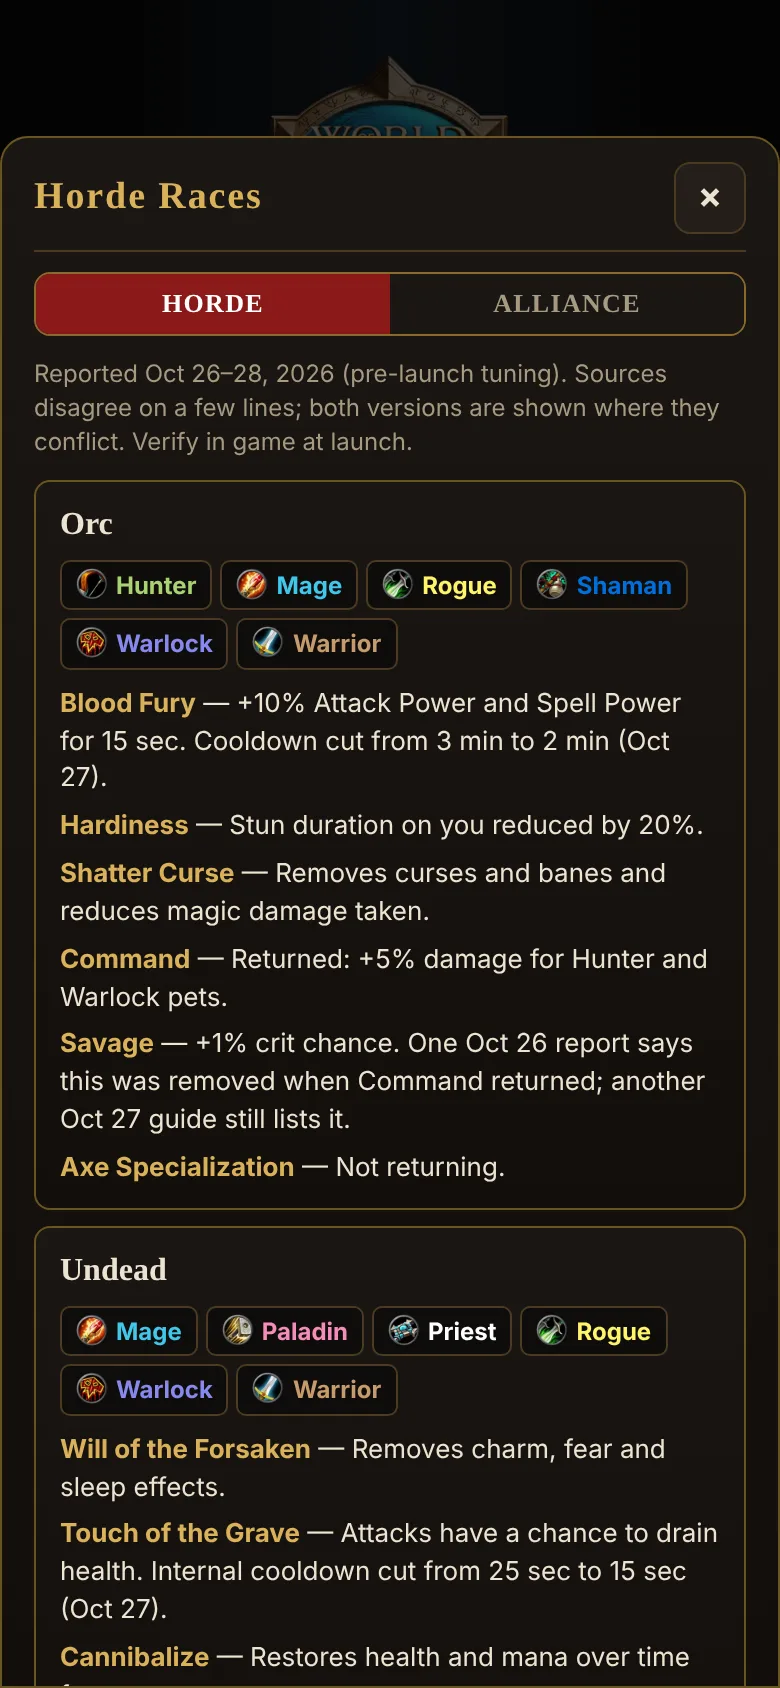
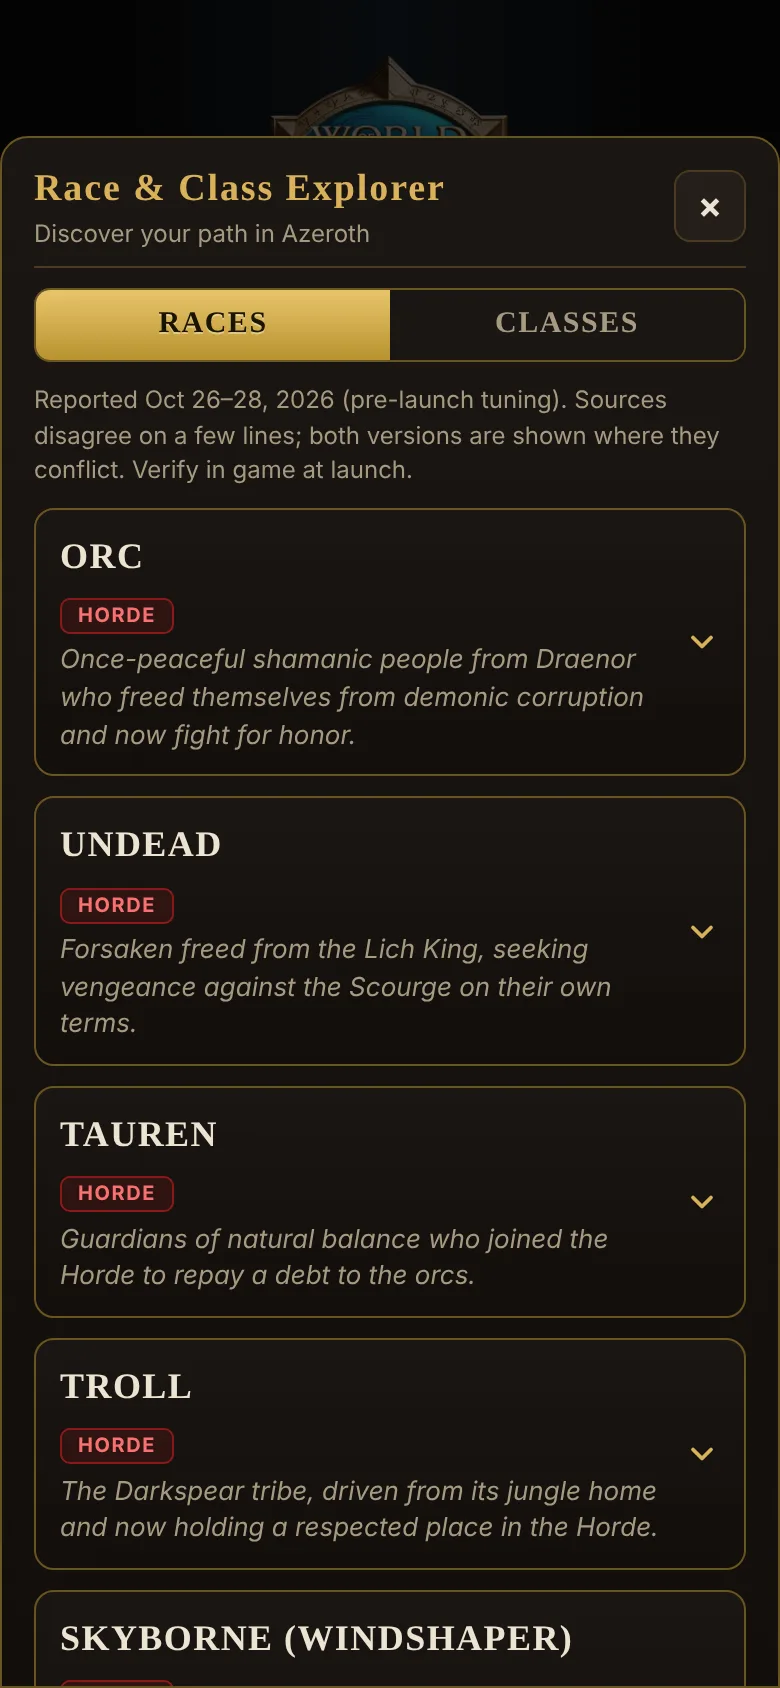
PvP planner: Race & Class Explorer with Races/Classes views and nested accordions
Claude-Session: https://claude.ai/code/session_01D5WRtL93QMjdNmrGVJvuEs

diff --git a/DuoPlanner/index.html b/DuoPlanner/index.html
@@ -128,7 +128,7 @@ select{width:100%;font:600 14px var(--body);padding:7px 8px;border-radius:6px;bo
 .racebtn{font:700 13px var(--display);padding:7px 12px;border-radius:8px;border:1px solid var(--gold2);background:var(--panel);color:var(--gold);cursor:pointer;letter-spacing:.05em}
 .modal{position:fixed;inset:0;background:#000b;z-index:30;display:flex;align-items:flex-end;justify-content:center;padding:0}
 .sheet{background:var(--panel);border:1px solid var(--gold2);border-radius:14px 14px 0 0;width:100%;max-width:720px;max-height:92%;overflow:auto;padding:12px max(16px,env(safe-area-inset-right,0px)) calc(16px + env(safe-area-inset-bottom,0px)) max(16px,env(safe-area-inset-left,0px))}
-.sheet .head{display:flex;align-items:center;gap:10px;position:sticky;top:0;background:var(--panel);padding-bottom:8px;border-bottom:1px solid var(--line);margin-bottom:10px}
+.sheet .head{display:flex;align-items:center;gap:10px;position:sticky;top:-12px;margin-top:-12px;padding-top:12px;background:#1b1612;padding-bottom:8px;border-bottom:1px solid var(--line);margin-bottom:10px;z-index:3}
 .sheet .head h2{margin:0;border:0;padding:0;flex:1}
 .sheet .head button.x{font:700 18px var(--body);border:1px solid var(--line);background:var(--panel2);color:var(--fg);border-radius:8px;width:36px;height:36px;cursor:pointer}
 .race{border:1px solid var(--line);border-radius:8px;padding:10px 12px;margin-bottom:8px;background:var(--panel2)}
@@ -201,6 +201,40 @@ select,.bar select{background:linear-gradient(180deg,#1f1915,#14100d) url("data:
 .solo .top{align-items:flex-start}
 .solo .top .names{padding-top:4px}
 
+/* ===== Explorer ===== */
+.xtog{max-width:none;margin-bottom:10px}
+.xcard{border:1px solid #6b5422;border-radius:10px;background:linear-gradient(180deg,#1b1612,#120e0b);margin-bottom:10px;overflow:hidden}
+.xhead{display:flex;align-items:center;gap:10px;padding:10px 12px;cursor:pointer;width:100%;background:none;border:0;color:var(--fg);text-align:left;font:inherit}
+.xhead:focus-visible{outline:2px solid var(--gold);outline-offset:-2px}
+.xhead h3{font-size:18px;margin:0;color:var(--fg);letter-spacing:.04em;text-transform:uppercase}
+.xhead .sub{font-size:13px;color:var(--muted);font-style:italic}
+.xhead .ci.big{width:44px;height:44px}
+.chev{margin-left:auto;color:var(--gold);transition:transform .15s;flex-shrink:0}
+.open>.xhead .chev{transform:rotate(180deg)}
+.xbody{padding:0 12px 12px;display:none}
+.open>.xbody{display:block}
+.fb{font:700 10px var(--body);letter-spacing:.08em;padding:2px 8px;border-radius:5px;border:1px solid;text-transform:uppercase}
+.fb.Horde{color:#f87171;border-color:#8b1a1a;background:#8b1a1a33} .fb.Alliance{color:#60a5fa;border-color:#1f4e9c;background:#1f4e9c33}
+.rb{font:700 10px var(--body);letter-spacing:.06em;padding:2px 7px;border-radius:5px;border:1px solid;text-transform:uppercase;white-space:nowrap}
+.rb.Tank{color:#60a5fa;border-color:#1e4f8f;background:#1e4f8f33} .rb.Healer{color:#34d399;border-color:#0f6b4b;background:#0f6b4b33} .rb.DPS{color:#f87171;border-color:#8b1f1f;background:#8b1f1f33} .rb.Mixed{color:#d8b4fe;border-color:#5b2a9c;background:#5b2a9c33}
+.xsec{font-family:var(--display);font-size:12px;color:var(--gold);letter-spacing:.1em;text-transform:uppercase;display:flex;align-items:center;gap:8px;margin:10px 0 6px}
+.xsec::after{content:"";flex:1;height:1px;background:#4a3a22}
+.traits{list-style:none;margin:0;padding:0;display:flex;flex-direction:column;gap:4px}
+.traits li{background:#0f0c0a;border:1px solid #2d251c;border-radius:6px;padding:7px 9px;font-size:13px;line-height:1.4}
+.traits li b{color:var(--gold);display:block;font-size:13.5px}
+.cls{border:1px solid #4a3a22;border-radius:8px;background:#0f0c0a;margin-bottom:6px;overflow:hidden}
+.cls>.xhead{padding:8px 10px}
+.cls>.xhead h3{font-size:15px}
+.cls .xbody{padding:0 8px 8px}
+.spec{display:grid;grid-template-columns:36px 1fr;gap:8px;align-items:center;padding:6px 6px;border-top:1px solid #2d251c;font-size:13px}
+.spec img{width:36px;height:36px;border-radius:6px;object-fit:cover;object-position:50% 20%;border:1px solid var(--pc,#4a3a22)}
+.spec .sn{font-weight:700;display:flex;align-items:center;gap:6px;flex-wrap:wrap}
+.spec .sd{color:var(--muted);font-size:12.5px}
+.racerow{display:flex;align-items:center;gap:8px;padding:6px 8px;border-top:1px solid #2d251c;font-size:13px;background:none;border-left:0;border-right:0;border-bottom:0;width:100%;color:var(--fg);text-align:left;font-family:inherit;cursor:pointer}
+.racerow .fb{margin-left:auto}
+.cdesc{font-size:13px;color:var(--muted);margin:0 0 6px;line-height:1.45}
+@media (min-width:700px){#raceList.grid{display:grid;grid-template-columns:1fr 1fr;gap:10px;align-items:start} #raceList.grid .xcard{margin:0}}
+
 footer{margin-top:24px;color:var(--muted);font-size:12px;text-align:center}
 </style>
 </head>
@@ -213,7 +247,7 @@ footer{margin-top:24px;color:var(--muted);font-size:12px;text-align:center}
 <p class="sub" id="subline">All 406 spec pairings · graded A–F on Fun, Effectiveness and Ease · Launch Nov 4, 2026</p>
 </header>
 
-<div class="topbar"><button type="button" class="racebtn" id="openRaces">Races &amp; Racials</button><button type="button" class="racebtn" id="openHow">How Ratings Work</button></div>
+<div class="topbar"><button type="button" class="racebtn" id="openRaces">Race &amp; Class Explorer</button><button type="button" class="racebtn" id="openHow">How Ratings Work</button></div>
 <div class="modal" id="howModal" hidden><div class="sheet" role="dialog" aria-label="How ratings work"><div class="head"><h2>How Ratings Work</h2><button type="button" class="x" id="closeHow" aria-label="Close">×</button></div>
 <p class="note"><b>Grades:</b> A = 5, B = 4, C = 3, D = 2, F = 1. The overall grade is the average of the category scores: 4.5+ A, 3.5–4.49 B, 2.5–3.49 C, 1.5–2.49 D, below 1.5 F. Sorting still uses the underlying numbers.</p>
 <p class="note">Every score is a 1–5 rating built from weighted factors: rate each factor 1–5, multiply by its weight, add them up, round to the nearest whole number. The same rubric is applied to every spec and pairing. Scores are judgments about level-60 play with comparable gear, not measured win rates.</p>
@@ -265,7 +299,10 @@ footer{margin-top:24px;color:var(--muted);font-size:12px;text-align:center}
 <p class="note">Duo grades come from the players' own assessments. Solo grades and the one-line rationales are Claude's starting estimates from classic-era mechanics plus the latest credible Forever reporting, with estimates kept distinct from verified mechanics. Revise them freely once you have played.</p>
 </div></div>
 <div class="mode"><button type="button" id="mDuo" class="on">DUO</button><button type="button" id="mSolo">SOLO</button></div>
-<div class="modal" id="raceModal" hidden><div class="sheet" role="dialog" aria-label="Races and racials"><div class="head"><h2 id="raceTitle">Horde Races</h2><button type="button" class="x" id="closeRaces" aria-label="Close">×</button></div><div class="fac" style="margin-bottom:10px"><button type="button" id="fH" class="h on">HORDE</button><button type="button" id="fA" class="a">ALLIANCE</button></div><p class="note" id="raceNote"></p><div id="raceList"></div></div></div>
+<div class="modal" id="raceModal" hidden><div class="sheet" role="dialog" aria-label="Race and Class Explorer"><div class="head"><div style="flex:1"><h2 style="margin:0">Race &amp; Class Explorer</h2><div class="sub" style="font-size:12px">Discover your path in Azeroth</div></div><button type="button" class="x" id="closeRaces" aria-label="Close">×</button></div>
+<div class="mode xtog"><button type="button" id="xRaces" class="on">RACES</button><button type="button" id="xClasses">CLASSES</button></div>
+<p class="note" id="raceNote"></p>
+<div id="raceList"></div></div></div></div>
 
 <div class="filters" id="duoFilters">
 <div class="who">
@@ -472,16 +509,38 @@ document.getElementById("copyAll").onclick=()=>{if(!Object.keys(saved).length)re
 document.getElementById("showAll").onclick=()=>{if(!Object.keys(saved).length)return toast("Nothing saved yet");showExport(exportText())};
 document.getElementById("clearAll").onclick=()=>{saved={};persist();document.getElementById("exportBox").hidden=true;render();toast("Cleared")};
 const CLASSCOL={"Warrior":"#C69B6D","Mage":"#3FC7EB","Warlock":"#8788EE","Rogue":"#FFF468","Hunter":"#AAD372","Druid":"#FF7C0A","Shaman":"#0070DD","Paladin":"#F48CBA","Priest":"#FFFFFF"};
-function renderFaction(){
-  const h=state.faction==="Horde";
-  document.getElementById("fH").classList.toggle("on",h);document.getElementById("fA").classList.toggle("on",!h);
-  document.getElementById("raceTitle").textContent=state.faction+" Races";
-  document.getElementById("raceNote").textContent=RACES.asof;
-  document.getElementById("raceList").innerHTML=RACES[state.faction].map(r=>`<div class="race"><h3>${esc(r.race)}</h3><div class="chips">${r.classes.map(c=>`<span class="chip" style="color:${CLASSCOL[c]}"><img class="ci" src="${ICON}${CICON[c]}.webp" alt="">${c}</span>`).join("")}</div><ul>${r.racials.map(([n,d])=>`<li><b>${esc(n)}</b> — ${esc(d)}</li>`).join("")}</ul></div>`).join("");
-  try{localStorage.setItem("hordeFaction",state.faction)}catch(e){}
+const XP={"raceDesc": {"Orc": "Once-peaceful shamanic people from Draenor who freed themselves from demonic corruption and now fight for honor.", "Undead": "Forsaken freed from the Lich King, seeking vengeance against the Scourge on their own terms.", "Tauren": "Guardians of natural balance who joined the Horde to repay a debt to the orcs.", "Troll": "The Darkspear tribe, driven from its jungle home and now holding a respected place in the Horde.", "Skyborne (Windshaper)": "Shen'dorei descendants who gained elemental skysight and seek their missing wind-spirit mentors.", "Human": "A young, versatile race of strong kingdoms seeking to restore its former glory.", "Dwarf": "Scholarly, artifact-hunting people who turned from earthly riches to ancient knowledge.", "Night Elf": "Survivors of an ancient forest empire, emerged from isolation to face the Burning Legion again.", "Gnome": "Small but brilliant inventors whose lost city of Gnomeregan was a steam-technology marvel.", "Skyborne (High Order)": "Descendants of Highborne scholars who aim to regain lost arcane knowledge."}, "classOrder": ["Warrior", "Paladin", "Hunter", "Rogue", "Priest", "Shaman", "Mage", "Warlock", "Druid"], "classes": {"Warrior": {"roles": ["Tank", "DPS"], "desc": "Plate-armored fighters who build rage in combat and turn it into crushing weapon attacks or an unbreakable defense.", "specs": [["Arms", "DPS", "Powerful, deliberate weapon attacks."], ["Fury", "DPS", "Fast, relentless melee combat."], ["Protection", "Tank", "Shields, defense, and enemy control."]]}, "Paladin": {"roles": ["Tank", "Healer", "DPS"], "desc": "Holy knights who wield the Light to heal, protect, or smite, with blessings and auras that strengthen the whole group.", "specs": [["Holy", "Healer", "Restores allies with the power of the Light."], ["Protection", "Tank", "Defends allies with holy magic and armor."], ["Retribution", "DPS", "Combines melee weapons with holy damage."]]}, "Hunter": {"roles": ["DPS"], "desc": "Ranged marksmen who fight beside a tamed beast, laying traps and controlling distance.", "specs": [["Beast Mastery", "DPS", "Fights alongside a powerful animal companion."], ["Marksmanship", "DPS", "Focuses on precise ranged weapon damage."], ["Survival", "DPS", "Uses traps and close-range survival tactics."]]}, "Rogue": {"roles": ["DPS"], "desc": "Stealthy melee assassins who pick their fights, open from the shadows, and finish with combo points.", "specs": [["Assassination", "DPS", "Uses poisons and sustained lethal attacks."], ["Combat", "DPS", "Specializes in direct and sustained melee combat."], ["Subtlety", "DPS", "Uses stealth, positioning, and surprise attacks."]]}, "Priest": {"roles": ["Healer", "DPS"], "desc": "Masters of the Light and the Shadow, healing and shielding allies or draining enemies with dark magic.", "specs": [["Discipline", "Healer", "Protects and heals allies with divine magic."], ["Holy", "Healer", "Specializes in powerful restorative spells."], ["Shadow", "DPS", "Uses dark magic and sustained magical damage."]]}, "Shaman": {"roles": ["Healer", "DPS"], "desc": "Spiritual leaders who call on the elements through totems, lightning, and empowered weapons.", "specs": [["Elemental", "DPS", "Strikes enemies with lightning and elemental spells."], ["Enhancement", "DPS", "Empowers melee attacks with elemental energy."], ["Restoration", "Healer", "Heals allies using water magic and totems."]]}, "Mage": {"roles": ["DPS"], "desc": "Cloth-wearing spellcasters who control the battlefield with arcane, fire, and frost magic.", "specs": [["Arcane", "DPS", "Channels powerful arcane magic."], ["Fire", "DPS", "Burns enemies with explosive fire spells."], ["Frost", "DPS", "Controls and damages enemies with freezing magic."]]}, "Warlock": {"roles": ["DPS"], "desc": "Wielders of fel and shadow who command demons and wear enemies down with curses and fear.", "specs": [["Affliction", "DPS", "Weakens enemies with curses and damage over time."], ["Demonology", "DPS", "Uses summoned demons and demonic powers."], ["Destruction", "DPS", "Unleashes powerful destructive spells."]]}, "Druid": {"roles": ["Tank", "Healer", "DPS"], "desc": "Shapeshifting keepers of nature who can fill any role by changing form.", "specs": [["Balance", "DPS", "Uses nature and celestial magic at range."], ["Feral Combat", "Tank / DPS", "Shapeshifts into bears for tanking or cats for melee damage."], ["Restoration", "Healer", "Uses nature magic and healing-over-time spells."]]}}};
+const CHEV='<svg class="chev" width="18" height="18" viewBox="0 0 24 24" fill="none" stroke="currentColor" stroke-width="2.5" stroke-linecap="round" stroke-linejoin="round"><path d="M6 9l6 6 6-6"/></svg>';
+const ALLRACES=[...RACES.Horde.map(r=>({...r,faction:"Horde"})),...RACES.Alliance.map(r=>({...r,faction:"Alliance"}))];
+const SPECIMG={};Object.keys(SPECS).forEach(s=>{SPECIMG[s]=SPECS[s].img});
+function specPortrait(cls,spec){const n=spec==="Feral Combat"?"Feral Cat Druid":`${spec} ${cls}`;const u=SPECIMG[n];return u?`<img src="${u}" alt="" loading="lazy" style="--pc:${CLASSCOL[cls]}">`:`<span></span>`}
+function roleBadge(r){const k=r.includes("/")?"Mixed":r;return `<span class="rb ${k}">${r}</span>`}
+function classAccordion(cls,opts){const c=XP.classes[cls];
+  return `<div class="cls"><button type="button" class="xhead" data-acc>${`<img class="ci big" src="${ICON}${CICON[cls]}.webp" alt="" style="--pc:${CLASSCOL[cls]};width:36px;height:36px">`}<h3 style="color:${CLASSCOL[cls]}">${cls}</h3>${c.roles.map(roleBadge).join(" ")}${CHEV}</button><div class="xbody">${opts&&opts.desc?`<p class="cdesc">${c.desc}</p>`:""}${c.specs.map(([n,r,d])=>`<div class="spec">${specPortrait(cls,n)}<div><div class="sn">${n} ${roleBadge(r)}</div><div class="sd">${d}</div></div></div>`).join("")}</div></div>`}
+function raceCard(r,open){
+  return `<div class="xcard ${open?"open":""}" data-race="${esc(r.race)}"><button type="button" class="xhead" data-acc><div style="flex:1;min-width:0"><h3 style="font-family:var(--display)">${esc(r.race)}</h3><div style="margin:3px 0 4px"><span class="fb ${r.faction}">${r.faction}</span></div><div class="sub">${XP.raceDesc[r.race]||""}</div></div>${CHEV}</button>
+  <div class="xbody"><div class="xsec">Racial traits</div><ul class="traits">${r.racials.map(([n,d])=>`<li><b>${esc(n)}</b>${esc(d)}</li>`).join("")}</ul>
+  <div class="xsec">Available classes (${r.classes.length})</div>${XP.classOrder.filter(c=>r.classes.includes(c)).map(c=>classAccordion(c)).join("")}</div></div>`}
+function classCard(cls){const c=XP.classes[cls];const races=ALLRACES.filter(r=>r.classes.includes(cls));
+  return `<div class="xcard" data-class="${cls}"><button type="button" class="xhead" data-acc><img class="ci big" src="${ICON}${CICON[cls]}.webp" alt="" style="--pc:${CLASSCOL[cls]}"><div style="flex:1;min-width:0"><h3 style="color:${CLASSCOL[cls]}">${cls}</h3><div style="margin-top:3px">${c.roles.map(roleBadge).join(" ")}</div></div>${CHEV}</button>
+  <div class="xbody"><p class="cdesc">${c.desc}</p><div class="xsec">Specializations</div>${c.specs.map(([n,r,d])=>`<div class="spec">${specPortrait(cls,n)}<div><div class="sn">${n} ${roleBadge(r)}</div><div class="sd">${d}</div></div></div>`).join("")}
+  <div class="xsec">Playable races (${races.length})</div>${races.map(r=>`<button type="button" class="racerow" data-goto="${esc(r.race)}">${esc(r.race)}<span class="fb ${r.faction}">${r.faction}</span></button>`).join("")}</div></div>`}
+state.xview="races";
+function renderExplorer(openRace){
+  const list=document.getElementById("raceList");
+  document.getElementById("xRaces").classList.toggle("on",state.xview==="races");document.getElementById("xClasses").classList.toggle("on",state.xview!=="races");
+  document.getElementById("raceNote").textContent=state.xview==="races"?RACES.asof:"Nine classes, 27 specializations. Tap a class for its specs and every race that can play it; tap a race to jump to its racial traits.";
+  list.className="grid";
+  list.innerHTML=state.xview==="races"?ALLRACES.map(r=>raceCard(r,r.race===openRace)).join(""):XP.classOrder.map(classCard).join("");
+  if(openRace){const el=list.querySelector(`[data-race="${CSS.escape(openRace)}"]`);if(el)el.scrollIntoView({block:"start"})}
 }
-document.getElementById("fH").onclick=()=>{state.faction="Horde";renderFaction()};
-document.getElementById("fA").onclick=()=>{state.faction="Alliance";renderFaction()};
+document.getElementById("raceList").addEventListener("click",e=>{
+  const go=e.target.closest("[data-goto]");if(go){state.xview="races";renderExplorer(go.dataset.goto);return}
+  const h=e.target.closest("[data-acc]");if(!h)return;h.parentElement.classList.toggle("open");
+});
+document.getElementById("xRaces").onclick=()=>{state.xview="races";renderExplorer()};
+document.getElementById("xClasses").onclick=()=>{state.xview="classes";renderExplorer()};
+function renderFaction(){renderExplorer()}
 const modal=document.getElementById("raceModal");
 document.getElementById("openRaces").onclick=()=>{modal.hidden=false};
 document.getElementById("closeRaces").onclick=()=>{modal.hidden=true};

diff --git a/games/duoplanner/index.html b/games/duoplanner/index.html
@@ -50,12 +50,12 @@
         </header>
         <a class="czc-cover" href="../../DuoPlanner/" aria-label="Open the PvP Planner"><img src="../../assets/games/duoplanner-cover.webp" alt="PvP Planner: a duo card and two solo cards with portraits and letter-grade shields" loading="lazy" width="1600" height="900"></a>
         <p>Built for the launch of World of Warcraft: Forever, the PvP Planner grades every one of the 406 possible two-spec pairings across all 28 specializations on Fun, Effectiveness and Ease, each 1 to 5, for a color-coded total out of 15. Every pairing carries a one-sentence read on why it scores the way it does, grounded in the actual kit: Shatter combos, Pain Suppression, Windfury, Viper Sting, Fear.</p>
-        <p>Every spec has its own portrait, and every grade is a shield badge with a five-segment bar, colored by the grade alone: A blue, B green, C yellow, D red, F gray. Filter each player by role (Healer, Tank, Melee, Ranged) or exact spec, sort by any axis, and the Top Picks section recalculates for whatever you have selected. A Solo mode grades each spec alone on Fun, Ease, Leveling and solo PvP out of 20. Save the combos you are weighing, then copy them as a ready-made prompt to paste into an AI for a deeper write-up. A Races &amp; Racials sheet covers both factions with the latest pre-launch racial tuning.</p>
+        <p>Every spec has its own portrait, and every grade is a shield badge with a five-segment bar, colored by the grade alone: A blue, B green, C yellow, D red, F gray. Filter each player by role (Healer, Tank, Melee, Ranged) or exact spec, sort by any axis, and the Top Picks section recalculates for whatever you have selected. A Solo mode grades each spec alone on Fun, Ease, Leveling and solo PvP out of 20. Save the combos you are weighing, then copy them as a ready-made prompt to paste into an AI for a deeper write-up. A Race &amp; Class Explorer covers every Forever race and class: racial traits with the latest pre-launch tuning, every race's playable classes, and all 27 specializations with their roles.</p>
                 <div class="czc-gallery" role="list">
           <a class="czc-thumb" href="../../assets/games/duoplanner-duo.webp" data-full="../../assets/games/duoplanner-duo.webp" aria-label="Expand: Duo cards with Player 1 and Player 2 portraits, overall grade shield and Fun, Effective and Ease badges"><img src="../../assets/games/duoplanner-duo.webp" alt="Duo cards: Player 1 and Player 2 portraits side by side, an overall grade shield between them and three graded badges below" loading="lazy" width="780" height="1688"></a>
           <a class="czc-thumb" href="../../assets/games/duoplanner-solo.webp" data-full="../../assets/games/duoplanner-solo.webp" aria-label="Expand: Solo cards with a full-height portrait, overall grade and four graded badges"><img src="../../assets/games/duoplanner-solo.webp" alt="Solo cards: a full-height spec portrait on the left, overall grade shield and Fun, Ease, Level and PvP badges" loading="lazy" width="780" height="1688"></a>
           <a class="czc-thumb" href="../../assets/games/duoplanner-home.webp" data-full="../../assets/games/duoplanner-home.webp" aria-label="Expand: Home view with role filters for both players and the Top Picks section"><img src="../../assets/games/duoplanner-home.webp" alt="Home view: role filter buttons for Player 1 and Player 2, spec dropdowns and sort control" loading="lazy" width="780" height="1688"></a>
-          <a class="czc-thumb" href="../../assets/games/duoplanner-races.webp" data-full="../../assets/games/duoplanner-races.webp" aria-label="Expand: Races and Racials sheet with the Horde and Alliance switch"><img src="../../assets/games/duoplanner-races.webp" alt="Races and Racials sheet listing each race, its classes and current racial abilities" loading="lazy" width="780" height="1688"></a>
+          <a class="czc-thumb" href="../../assets/games/duoplanner-races.webp" data-full="../../assets/games/duoplanner-races.webp" aria-label="Expand: Race &amp; Class Explorer showing a race, its racial traits and available classes"><img src="../../assets/games/duoplanner-races.webp" alt="Race and Class Explorer: a race card with faction badge, racial traits and expandable class rows" loading="lazy" width="780" height="1688"></a>
         </div>
         <p class="czc-hint">Click any picture to expand it.</p>
         <div class="chips"><span class="chip">Vanilla JS</span><span class="chip">Single file, no build</span><span class="chip">406 duos · 28 solo specs</span><span class="chip">Role &amp; spec filters</span><span class="chip">Save &amp; export to AI</span><span class="chip">Phone first</span></div>
